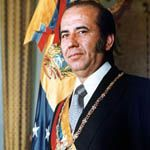
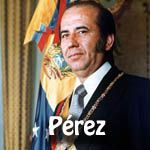
Add the last name of the presidents to each memory card.

Changed region(s): [[0.2933, 0.7467, 0.72, 1.0]]

diff --git a/build/css/main.css b/build/css/main.css
@@ -1,1 +1,1 @@
-html{-webkit-box-sizing:border-box;box-sizing:border-box;font-size:.9rem;font-family:"Roboto",sans-serif}html,body{height:100%}*,*::before,*::after{-webkit-box-sizing:inherit;box-sizing:inherit}body{margin:0;padding:0;font-family:'Roboto'}.container{display:-webkit-box;display:-ms-flexbox;display:flex;-ms-flex-wrap:wrap;flex-wrap:wrap;-ms-flex-pack:distribute;justify-content:space-around;margin:auto;-webkit-box-align:start;-ms-flex-align:start;align-items:flex-start;position:relative}h1,h2,h3,h4,h5,h6{margin:0;padding:0}h1{font-size:1.98rem;color:#212121}h2{font-size:1.8rem}h3{font-size:1.575rem}h4{font-size:1.35rem;color:#212121;margin:0;padding:0}.header,.btn-container,.user-values,.memory-table,.modal-pictures{display:-webkit-box;display:-ms-flexbox;display:flex;-ms-flex-wrap:wrap;flex-wrap:wrap}.header{width:100%;-ms-flex-pack:distribute;justify-content:space-around;-webkit-box-align:baseline;-ms-flex-align:baseline;align-items:baseline;margin-bottom:1em;padding:0;background:#C5BE9B;-webkit-box-shadow:0 1px 3px rgba(0,0,0,0.12),0 1px 2px rgba(0,0,0,0.24);box-shadow:0 1px 3px rgba(0,0,0,0.12),0 1px 2px rgba(0,0,0,0.24)}@media (min-width: 769px){.header{padding:1em}}.menu{width:30%}.president-information{width:90%;margin:auto}.btn-container{-webkit-box-orient:horizontal;-webkit-box-direction:normal;-ms-flex-direction:row;flex-direction:row;-webkit-box-pack:center;-ms-flex-pack:center;justify-content:center;margin-bottom:1em}.btn{height:3.3em;-webkit-transition:all ease-in-out 250ms;transition:all ease-in-out 250ms;padding:1em 0.5em;margin:0.2em 0.5em;-webkit-box-shadow:0 3px 6px rgba(0,0,0,0.16),0 3px 6px rgba(0,0,0,0.23);box-shadow:0 3px 6px rgba(0,0,0,0.16),0 3px 6px rgba(0,0,0,0.23);cursor:pointer;font-size:1.1rem;color:#212121;text-decoration:none}.btn--gray{background-color:#D0BF5A}.btn--gray:hover{background-color:#c9b642;color:#FBFBFB}.btn--yellow{background-color:#FAD406}.btn--yellow:hover{background-color:#ddbb04;color:#FBFBFB}.btn--winner{border:none;background-color:#D0BF5A;width:6em}.btn--winner:hover{background-color:#c9b642;color:#FBFBFB}.user-values{width:90%;margin:auto;-webkit-box-pack:justify;-ms-flex-pack:justify;justify-content:space-between}.memory-table{width:65%;background:#D0BF5A;background-position:center;-ms-flex-pack:distribute;justify-content:space-around}.card-container{width:110px;height:110px;border:1px solid black;margin:1em;overflow:hidden;background-image:url("../img/Back2.png");-webkit-box-shadow:0 3px 6px rgba(0,0,0,0.16),0 3px 6px rgba(0,0,0,0.23);box-shadow:0 3px 6px rgba(0,0,0,0.16),0 3px 6px rgba(0,0,0,0.23)}.image-card{width:110px;height:110px}.disabled{opacity:0.7}.modal{margin:auto;position:absolute;-webkit-box-shadow:0 19px 38px rgba(0,0,0,0.3),0 15px 12px rgba(0,0,0,0.22);box-shadow:0 19px 38px rgba(0,0,0,0.3),0 15px 12px rgba(0,0,0,0.22);padding:2em}.modal--instructions{display:none;height:400px;width:600px;background-color:#FBFBFB;border:1px dashed #212121}.modal--winner{display:none;height:200px;width:450px;text-align:center;border:3px dashed #FAD406;background-color:#FBFBFB}.close{position:absolute;right:30px;font-size:1.8em;cursor:pointer}.modal-pictures{-ms-flex-pack:distribute;justify-content:space-around}
+html{-webkit-box-sizing:border-box;box-sizing:border-box;font-size:.9rem;font-family:"Roboto",sans-serif}html,body{height:100%}*,*::before,*::after{-webkit-box-sizing:inherit;box-sizing:inherit}body{margin:0;padding:0;font-family:'Roboto'}.container{display:-webkit-box;display:-ms-flexbox;display:flex;-ms-flex-wrap:wrap;flex-wrap:wrap;-ms-flex-pack:distribute;justify-content:space-around;margin:auto;-webkit-box-align:start;-ms-flex-align:start;align-items:flex-start;position:relative}h1,h2,h3,h4,h5,h6{margin:0;padding:0}h1{font-size:1.98rem;color:#212121}h2{font-size:1.8rem}h3{font-size:1.575rem}h4{font-size:1.35rem;color:#212121;margin:0;padding:0}.header,.btn-container,.user-values,.memory-table,.modal-pictures{display:-webkit-box;display:-ms-flexbox;display:flex;-ms-flex-wrap:wrap;flex-wrap:wrap}.header{width:100%;-ms-flex-pack:distribute;justify-content:space-around;-webkit-box-align:baseline;-ms-flex-align:baseline;align-items:baseline;margin-bottom:1em;padding:0;background:#C5BE9B;-webkit-box-shadow:0 1px 3px rgba(0,0,0,0.12),0 1px 2px rgba(0,0,0,0.24);box-shadow:0 1px 3px rgba(0,0,0,0.12),0 1px 2px rgba(0,0,0,0.24)}@media (min-width: 769px){.header{padding:1em}}.menu{width:30%}.president-information{width:90%;margin:auto}.btn-container{-webkit-box-orient:horizontal;-webkit-box-direction:normal;-ms-flex-direction:row;flex-direction:row;-webkit-box-pack:center;-ms-flex-pack:center;justify-content:center;margin-bottom:1em}.btn{height:3.3em;-webkit-transition:all ease-in-out 250ms;transition:all ease-in-out 250ms;padding:1em 0.5em;margin:0.2em 0.5em;-webkit-box-shadow:0 3px 6px rgba(0,0,0,0.16),0 3px 6px rgba(0,0,0,0.23);box-shadow:0 3px 6px rgba(0,0,0,0.16),0 3px 6px rgba(0,0,0,0.23);cursor:pointer;font-size:1.1rem;color:#212121;text-decoration:none}.btn--gray{background-color:#D0BF5A}.btn--gray:hover{background-color:#c9b642;color:#FBFBFB}.btn--yellow{background-color:#FAD406}.btn--yellow:hover{background-color:#ddbb04;color:#FBFBFB}.btn--winner{border:none;background-color:#D0BF5A;width:6em}.btn--winner:hover{background-color:#c9b642;color:#FBFBFB}.user-values{width:90%;margin:auto;-webkit-box-pack:justify;-ms-flex-pack:justify;justify-content:space-between}.memory-table{width:65%;background:#D0BF5A;background-position:center;-ms-flex-pack:distribute;justify-content:space-around}.card-container{width:110px;height:110px;border:1px solid black;margin:1em;overflow:hidden;background-image:url("../img/Back2.png");-webkit-box-shadow:0 3px 6px rgba(0,0,0,0.16),0 3px 6px rgba(0,0,0,0.23);box-shadow:0 3px 6px rgba(0,0,0,0.16),0 3px 6px rgba(0,0,0,0.23)}.image-card{width:110px;height:110px}.disabled{opacity:1}.modal{margin:auto;position:absolute;-webkit-box-shadow:0 19px 38px rgba(0,0,0,0.3),0 15px 12px rgba(0,0,0,0.22);box-shadow:0 19px 38px rgba(0,0,0,0.3),0 15px 12px rgba(0,0,0,0.22);padding:2em}.modal--instructions{display:none;height:400px;width:600px;background-color:#FBFBFB;border:1px dashed #212121}.modal--winner{display:none;height:200px;width:450px;text-align:center;border:3px dashed #FAD406;background-color:#FBFBFB}.close{position:absolute;right:30px;font-size:1.8em;cursor:pointer}.modal-pictures{-ms-flex-pack:distribute;justify-content:space-around}

diff --git a/src/scss/components/_memory-card.scss b/src/scss/components/_memory-card.scss
@@ -17,5 +17,5 @@
 }
 
 .disabled {
-    opacity: 0.7;
+    opacity: 1;
 }
